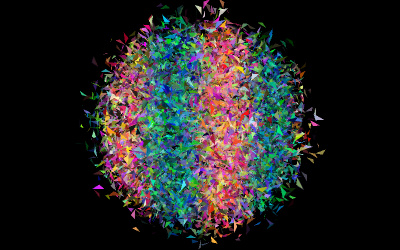
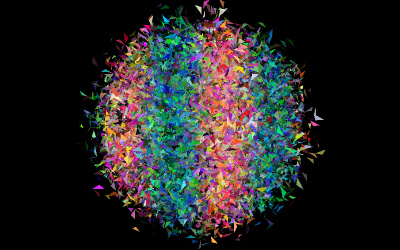
WebGLRenderer: Render doublesided in two calls (#21967)
* WebGLRenderer: Render doublesided in two calls

* Examples: Updated webgl_buffergeometry_instancing screenshot

* WebGLRenderer: Only draw transparent doublesided with two calls.

Changed region(s): [[0.24, 0.084, 0.75, 0.896]]

diff --git a/src/renderers/WebGLRenderer.js b/src/renderers/WebGLRenderer.js
@@ -1,4 +1,7 @@
 import {
+	BackSide,
+	DoubleSide,
+	FrontSide,
 	RGBAFormat,
 	HalfFloatType,
 	FloatType,
@@ -1358,7 +1361,23 @@ function WebGLRenderer( parameters ) {
 
 		} else {
 
-			_this.renderBufferDirect( camera, scene, geometry, material, object, group );
+			if ( material.transparent === true && material.side === DoubleSide ) {
+
+				material.side = BackSide;
+				material.needsUpdate = true;
+				_this.renderBufferDirect( camera, scene, geometry, material, object, group );
+
+				material.side = FrontSide;
+				material.needsUpdate = true;
+				_this.renderBufferDirect( camera, scene, geometry, material, object, group );
+
+				material.side = DoubleSide;
+
+			} else {
+
+				_this.renderBufferDirect( camera, scene, geometry, material, object, group );
+
+			}
 
 		}
 
